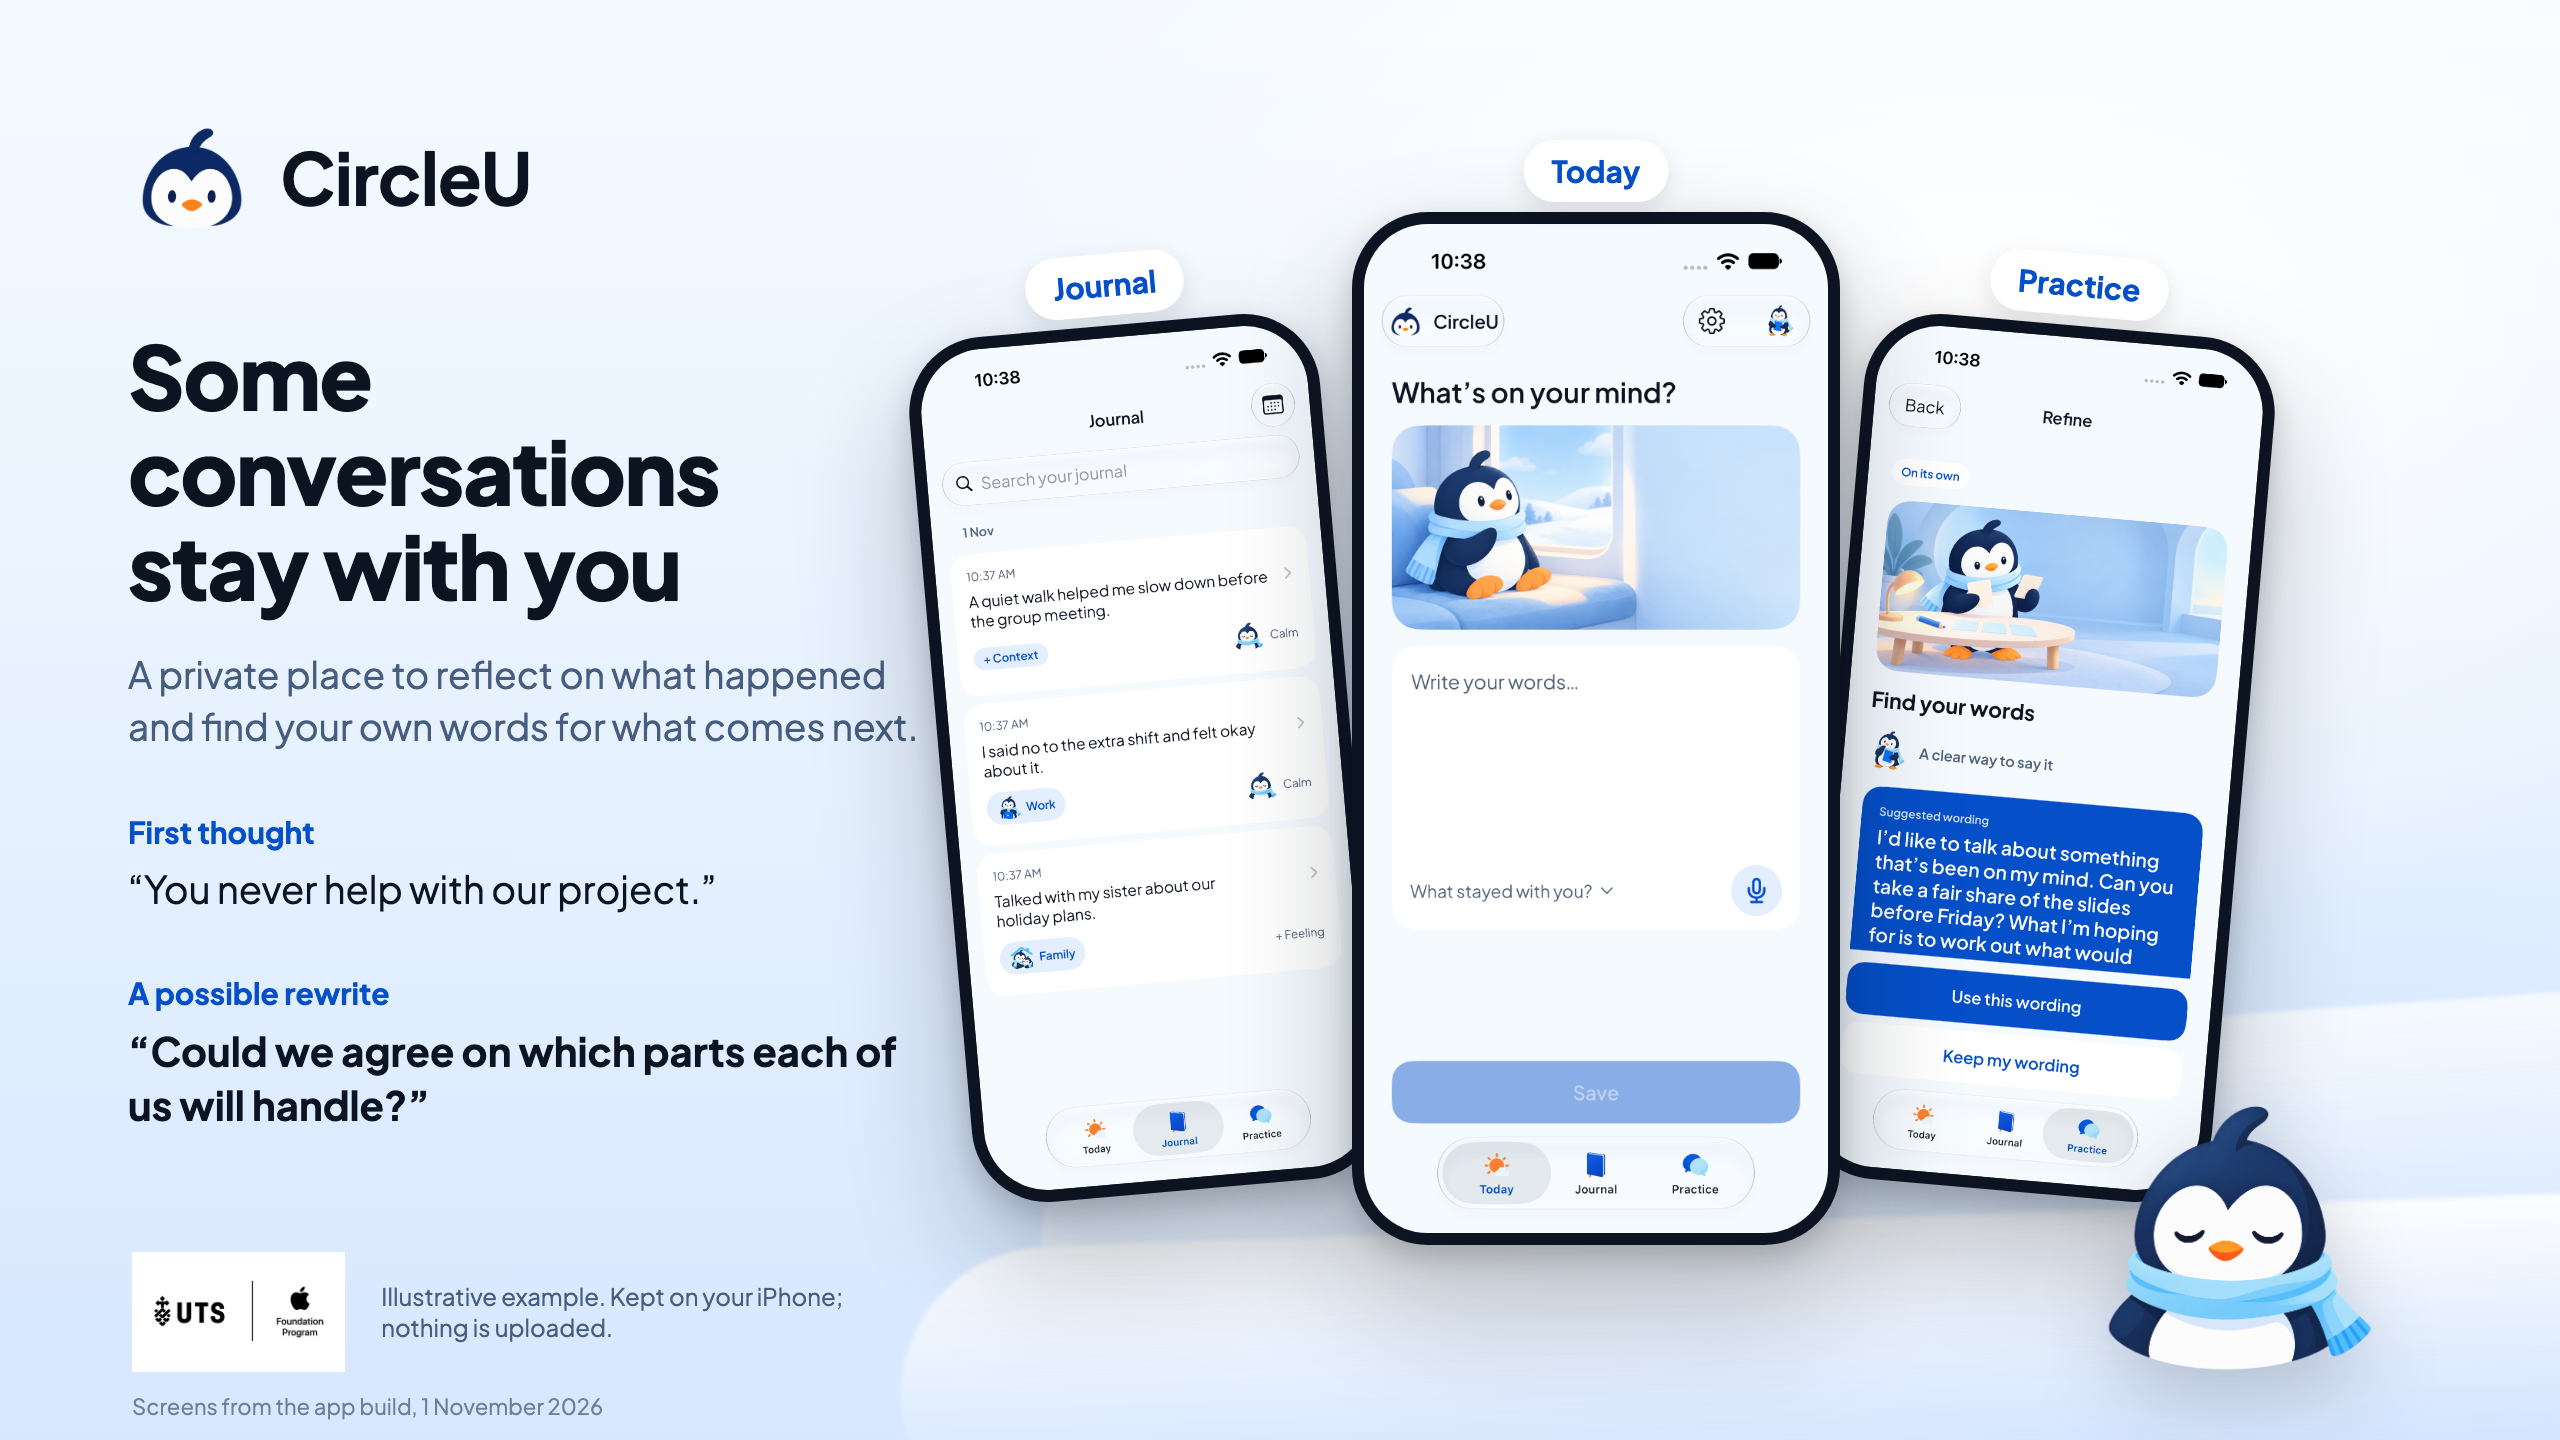
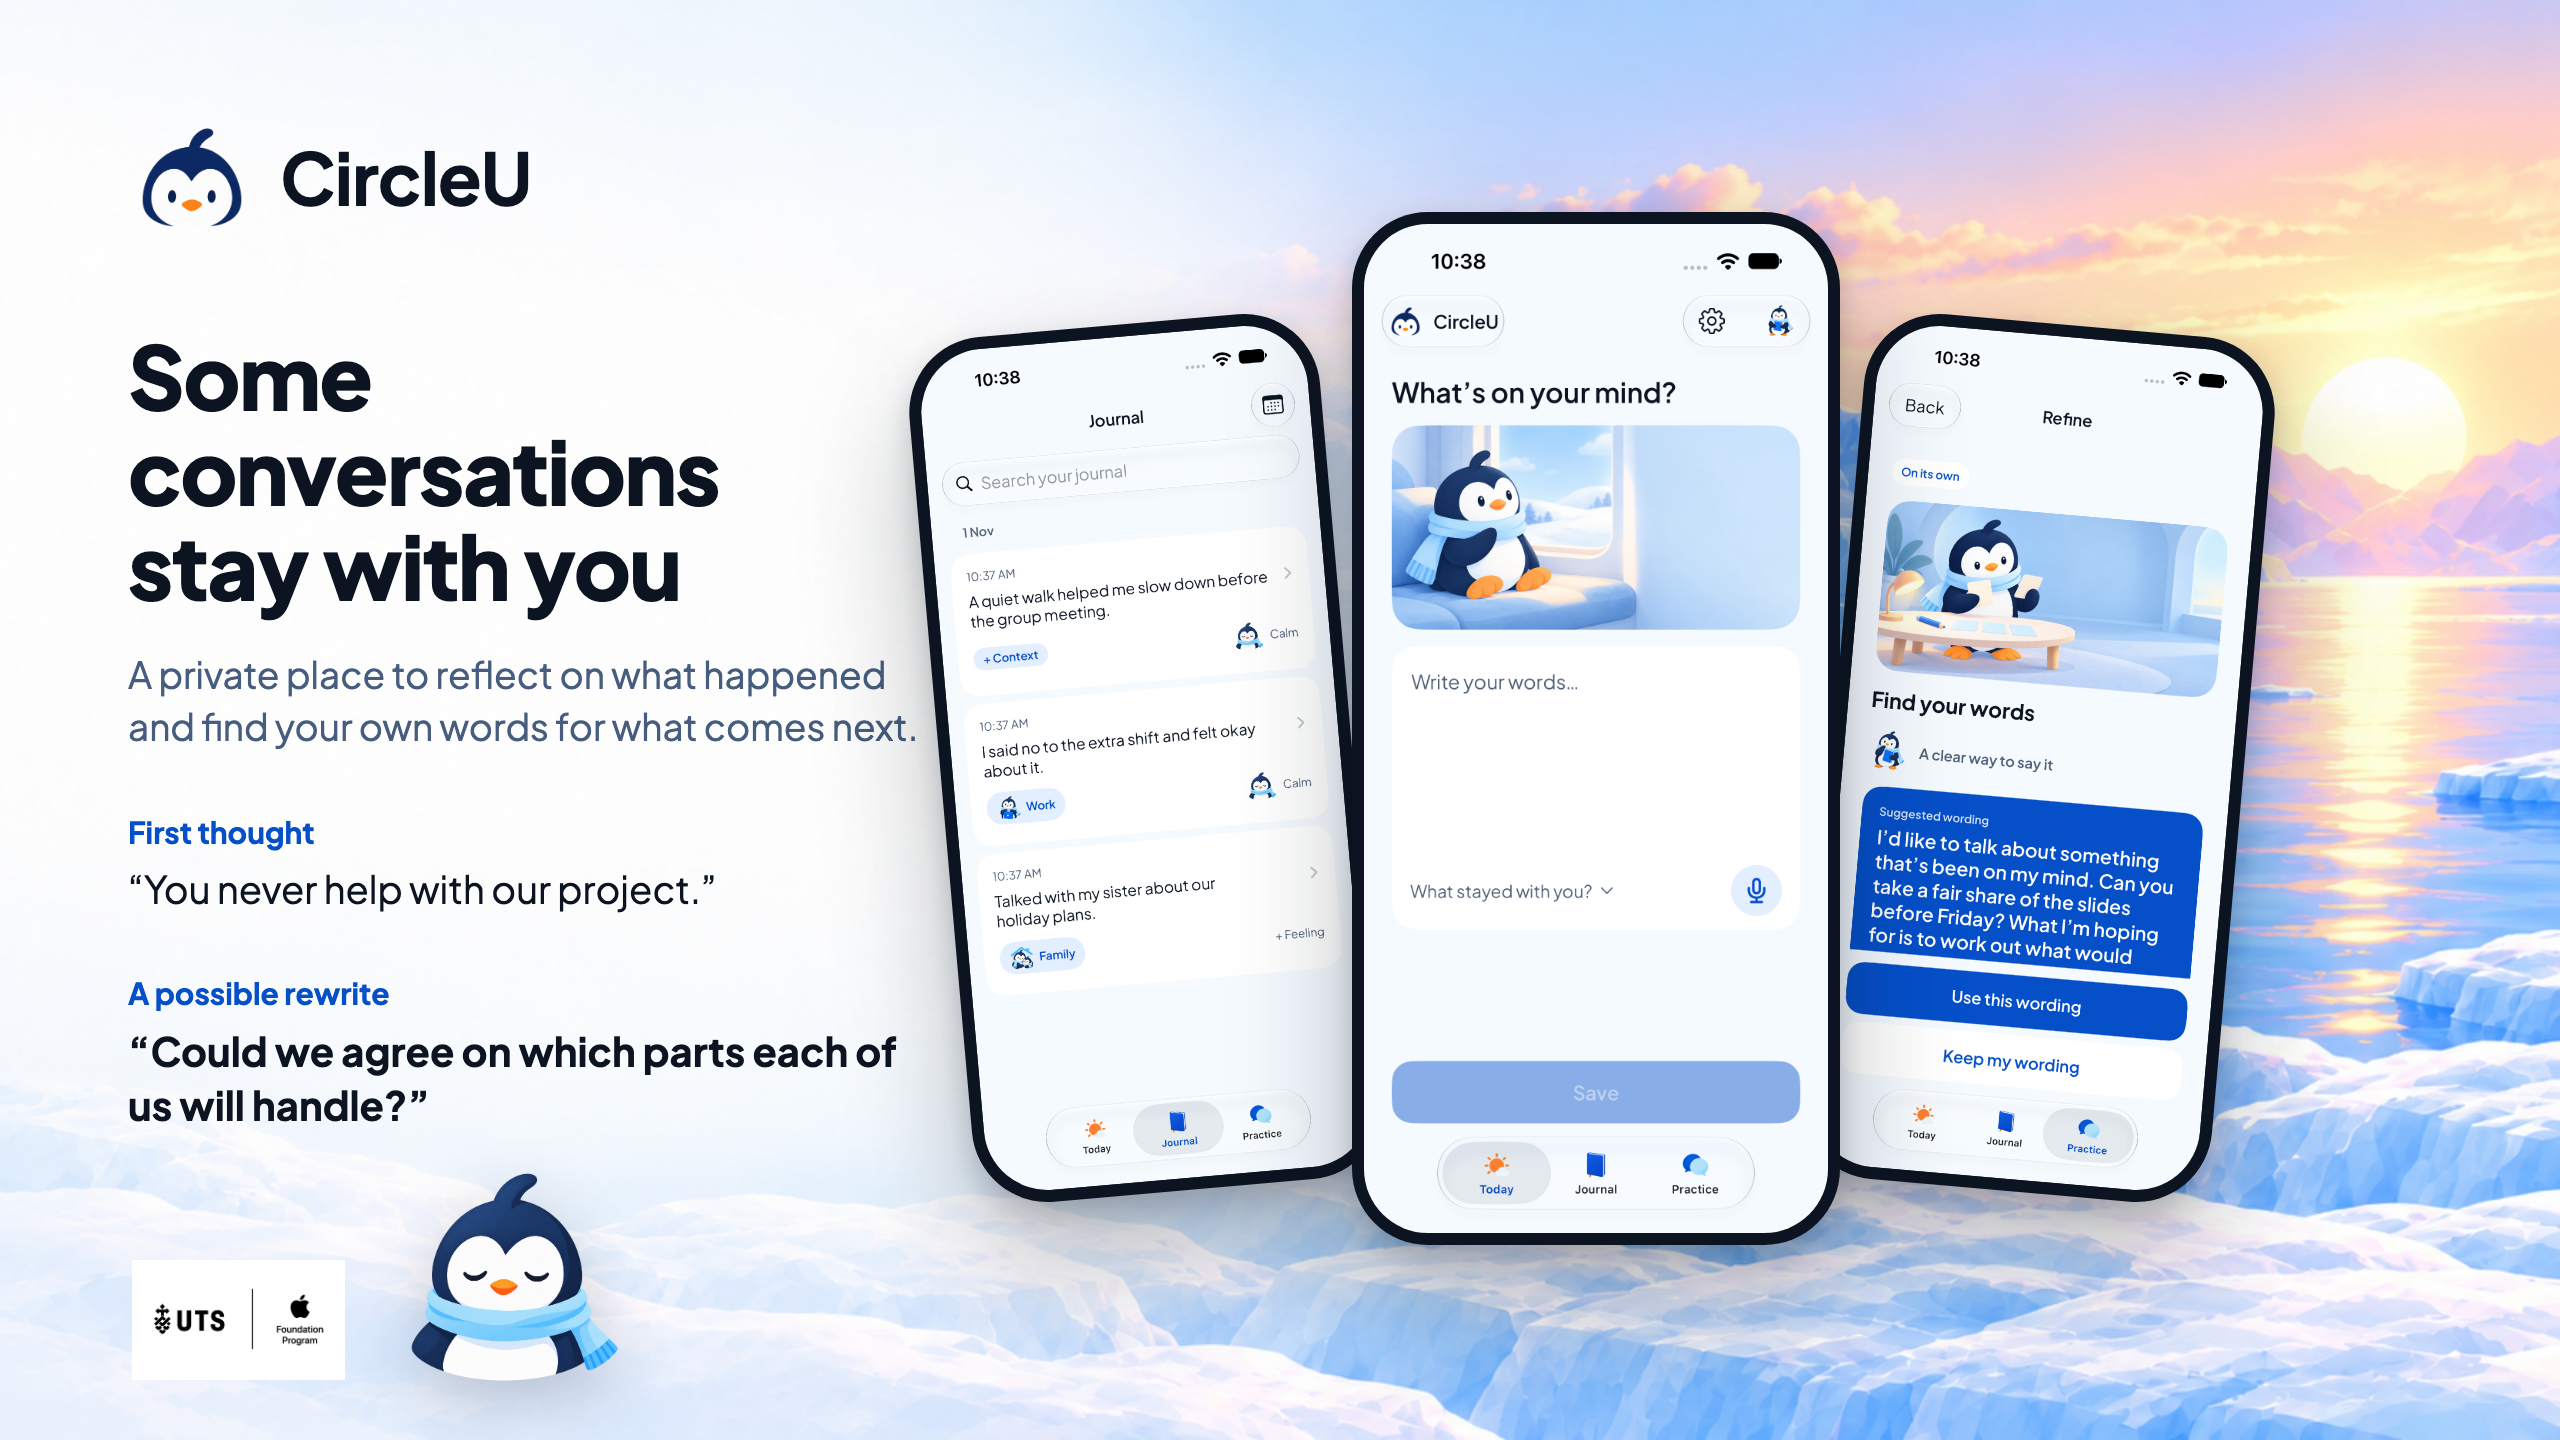
docs(poster): v7 revisions from owner review: arctic background, no captions or notes, Pingu beside the lockup

Changed region(s): [[0.0, 0.0, 1.0, 1.0], [0.0625, 0.5312, 0.3438, 0.7812], [0.4062, 0.1875, 0.4688, 0.2188]]

diff --git a/docs/design/showcase-2026-10-30/refinement-07/poster.html b/docs/design/showcase-2026-10-30/refinement-07/poster.html
@@ -9,10 +9,7 @@
   html, body { width: 1280px; height: 720px; overflow: hidden; }
   body {
     font-family: "Plus Jakarta Sans", -apple-system, sans-serif; color: #0d1421;
-    background:
-      radial-gradient(900px 520px at 78% 22%, #ffffff 0%, rgba(255,255,255,0) 60%),
-      radial-gradient(700px 420px at 92% 95%, #cfe3ff 0%, rgba(207,227,255,0) 65%),
-      linear-gradient(180deg, #f5faff 0%, #e6f1ff 55%, #d6e7ff 100%);
+    background: #f5faff url("assets/background.png") center / cover no-repeat;
     position: relative;
   }
   /* soft "ice" bands */
@@ -30,9 +27,9 @@
   .label { margin-top: 30px; font-size: 15px; font-weight: 700; color: #054fc9; }
   .quote { margin-top: 6px; font-size: 19px; line-height: 1.35; }
   .quote.rewrite { font-weight: 700; font-size: 20px; }
-  .foot { position: absolute; left: 66px; bottom: 34px; display: flex; align-items: center; gap: 18px; }
-  .foot img { height: 60px; }
-  .foot small { font-size: 12px; color: #465d7f; max-width: 240px; line-height: 1.3; }
+  .foot { position: absolute; left: 66px; bottom: 30px; display: flex; align-items: flex-end; gap: 22px; }
+  .foot img.lockup { height: 60px; }
+  .foot img.pingu { height: 118px; margin-bottom: -6px; filter: drop-shadow(0 10px 16px rgba(13,20,33,.2)); }
 
   .phones { position: absolute; left: 470px; top: 44px; width: 700px; height: 676px; }
   .phone { position: absolute; border-radius: 38px; background: #0d1421; padding: 6px;
@@ -45,13 +42,9 @@
   .phone .cap { position: absolute; left: 50%; transform: translateX(-50%); top: -36px; white-space: nowrap;
                 font-size: 15px; font-weight: 700; color: #054fc9; background: #fff; padding: 6px 14px; border-radius: 999px;
                 box-shadow: 0 4px 12px rgba(13,20,33,.1); }
-  .pingu { position: absolute; right: -20px; bottom: 28px; width: 150px; z-index: 3; filter: drop-shadow(0 14px 20px rgba(13,20,33,.22)); }
-  .note { position: absolute; left: 66px; bottom: 10px; font-size: 11px; color: #6b7f9c; }
 </style>
 </head>
 <body>
-  <div class="band a"></div>
-  <div class="band b"></div>
 
   <div class="left">
     <div class="wordmark"><img src="assets/logo.png" alt=""><span>CircleU</span></div>
@@ -64,16 +57,14 @@
   </div>
 
   <div class="phones">
-    <div class="phone side left"><span class="cap">Journal</span><img src="assets/journal.png" alt="Journal screen"></div>
-    <div class="phone main"><span class="cap">Today</span><img src="assets/today.png" alt="Today screen"></div>
-    <div class="phone side right"><span class="cap">Practice</span><img src="assets/practice.png" alt="Practice screen"></div>
-    <img class="pingu" src="assets/pingu-calm.png" alt="">
+    <div class="phone side left"><img src="assets/journal.png" alt="Journal screen"></div>
+    <div class="phone main"><img src="assets/today.png" alt="Today screen"></div>
+    <div class="phone side right"><img src="assets/practice.png" alt="Practice screen"></div>
   </div>
 
   <div class="foot">
-    <img src="assets/program-lockup.png" alt="UTS Apple Foundation Program">
-    <small>Illustrative example. Kept on your iPhone; nothing is uploaded.</small>
+    <img class="lockup" src="assets/program-lockup.png" alt="UTS Apple Foundation Program">
+    <img class="pingu" src="assets/pingu-calm.png" alt="">
   </div>
-  <div class="note">Screens from the app build, 1 November 2026</div>
 </body>
 </html>

diff --git a/docs/design/showcase-2026-10-30/refinement-07/README.md b/docs/design/showcase-2026-10-30/refinement-07/README.md
@@ -11,11 +11,11 @@
 | Element | Source |
 | --- | --- |
 | Journal, Today and Practice screens | `GuestShowcaseCaptureUITests.testCaptureShowcaseScreens` on the iPhone 18 Pro Simulator, iOS 27.0: a seeded Journal with three tagged entries, the empty Today screen, and the Practice result for an invented group-project message with guided suggestions |
-| Wordmark and Pingu | `BrandArtwork/BrandLogo.png` and `EmotionPortraits02/PinguCalmTransparentV1.png`, unchanged |
+| Background, wordmark and Pingu | `refinement-04/assets/arctic-background.png`, `BrandArtwork/BrandLogo.png` and `EmotionPortraits02/PinguCalmTransparentV1.png`, unchanged |
 | Type | Bundled Plus Jakarta Sans; headline 44 px, intro 18.5 px, quotes 19–20 px, labels 15 px on the 1280 × 720 canvas |
 | Program lockup | The same UTS Apple Foundation Program image as refinement 04–06; not a claim of endorsement |
 
-Footer text says "Illustrative example. Kept on your iPhone; nothing is uploaded." and "Screens from the app build, 1 November 2026", so the poster no longer carries a "Design mockups" disclaimer.
+Owner review, 1 November: background is the existing arctic poster artwork (refinement 04), the screen captions and the two footer notes are removed, and Pingu sits beside the program lockup. The poster carries no "Design mockups" disclaimer because the screens are real.
 
 ## Rebuilding
 
